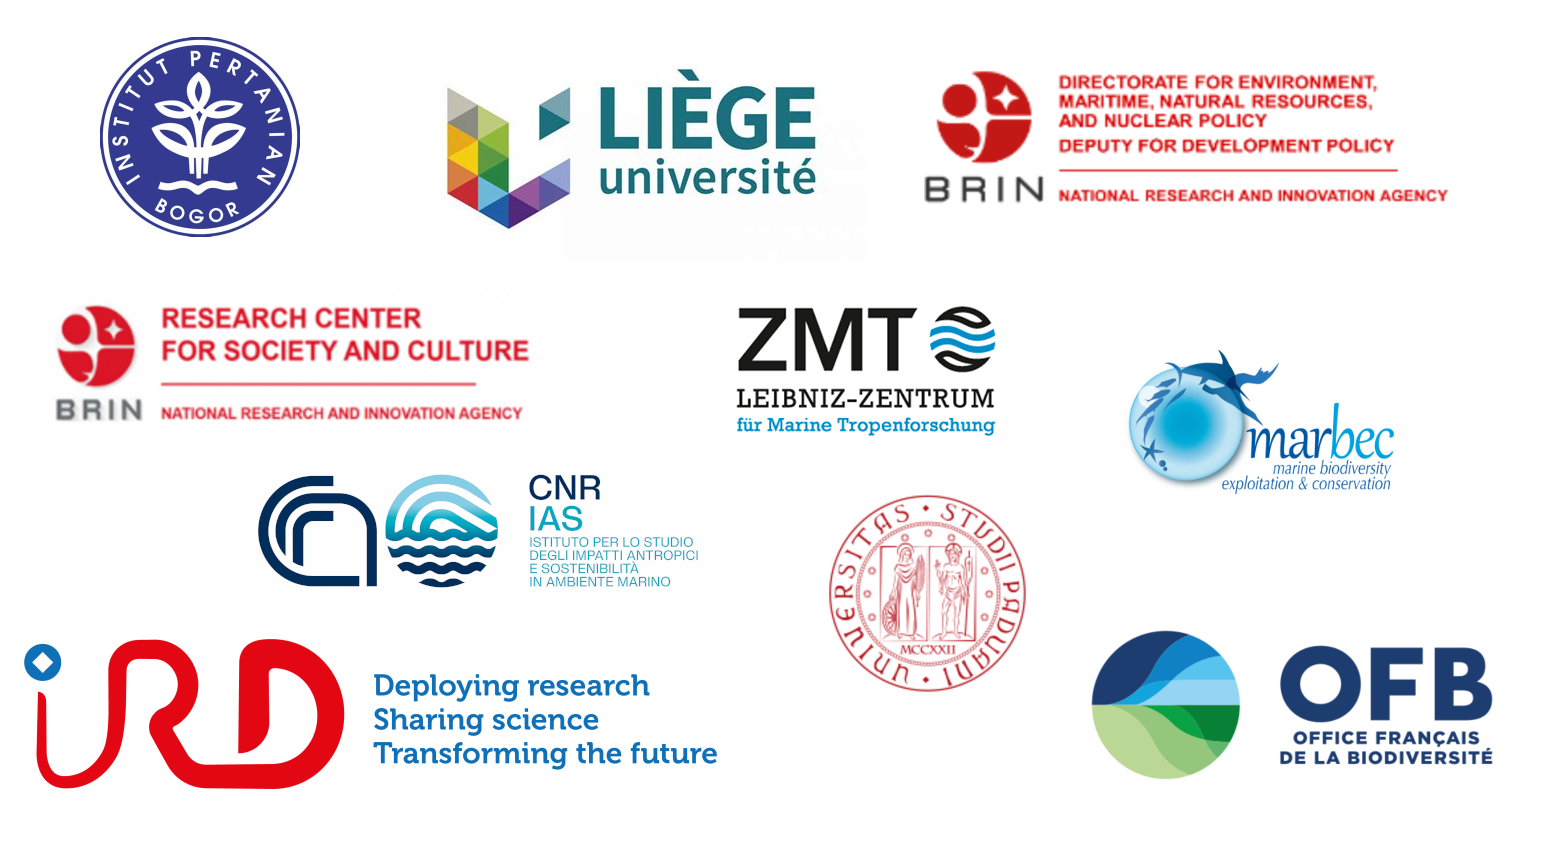
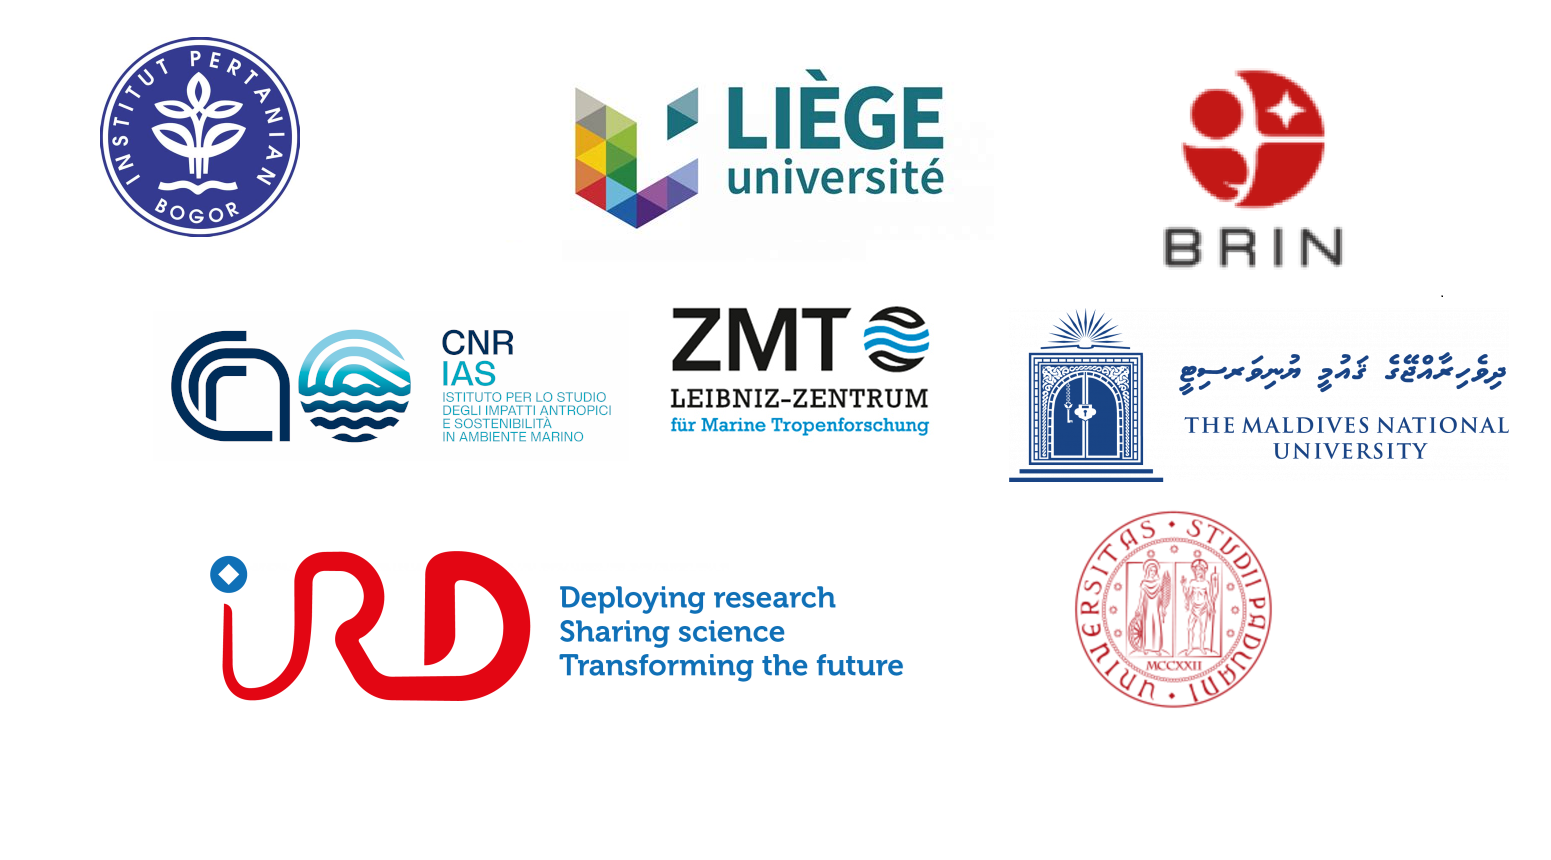
Develop (#1)
* Update author information, delivery date, and version history in moobyf_dmp.qmd

* Update subtitle to version 2.1, add ORCID for Nawfel Tabie-Geraux, and correct format type in moobyf_dmp.qmd

* Add moobyf-dmp.code-workspace to .gitignore

* Update naming convention

* Update the Sampling naming conventions

* Refine wording mistakes

* Refine wording and adapt temporality

* Update partners image

* Adjust some elements

* Update author affiliations and improve formatting in title and titlepage

* Update citation format in Data Management Plan

---------

Changed region(s): [[0.0, 0.3326, 0.9903, 0.9372], [0.2785, 0.0605, 0.9284, 0.3326], [0.0309, 0.3326, 0.4023, 0.514]]

diff --git a/_extensions/moobyf/resources/latex/title.tex b/_extensions/moobyf/resources/latex/title.tex
@@ -55,9 +55,16 @@ $endfor$
 }
 
 \reportauthors{
+\large
 $for(by-author)$
-{\large $it.name.literal$$if(it.orcid)${\footnotesize~\orcidlink{$it.orcid$}}$endif$$if(it.email)$\href{mailto:$it.email$}{~\footnotesize\textcolor{moobyf-secondary}{\faIcon{envelope}}}$endif$}\\%
-$for(it.affiliations)${\footnotesize\itshape $it.name$}~\\[.05ex]$endfor$%
+$it.name.literal$$for(it.affiliations)$\textsuperscript{$it.number$}$sep$,$endfor$$if(it.orcid)$~\orcidlink{$it.orcid$}$endif$$if(it.email)$~\href{mailto:$it.email$}{\faEnvelope}$endif$$sep$,  
+$endfor$
+
+\par\vspace{0.8em}
+
+\footnotesize
+$for(affiliations)$
+\textsuperscript{$it.number$} $it.name$\par
 $endfor$
 }
 

diff --git a/_extensions/moobyf/resources/latex/titlepage.tex b/_extensions/moobyf/resources/latex/titlepage.tex
@@ -13,7 +13,7 @@
 
    \vfill % Vertical whitespace
 
-	{\reportauthors\par} % Report authors, group or department
+	{\large \reportauthors} % Report authors, group or department
 
 	\vfill\ % Vertical whitespace
 	\hfill\hspace*{10em}{\large\reportdate\par} % Report date
